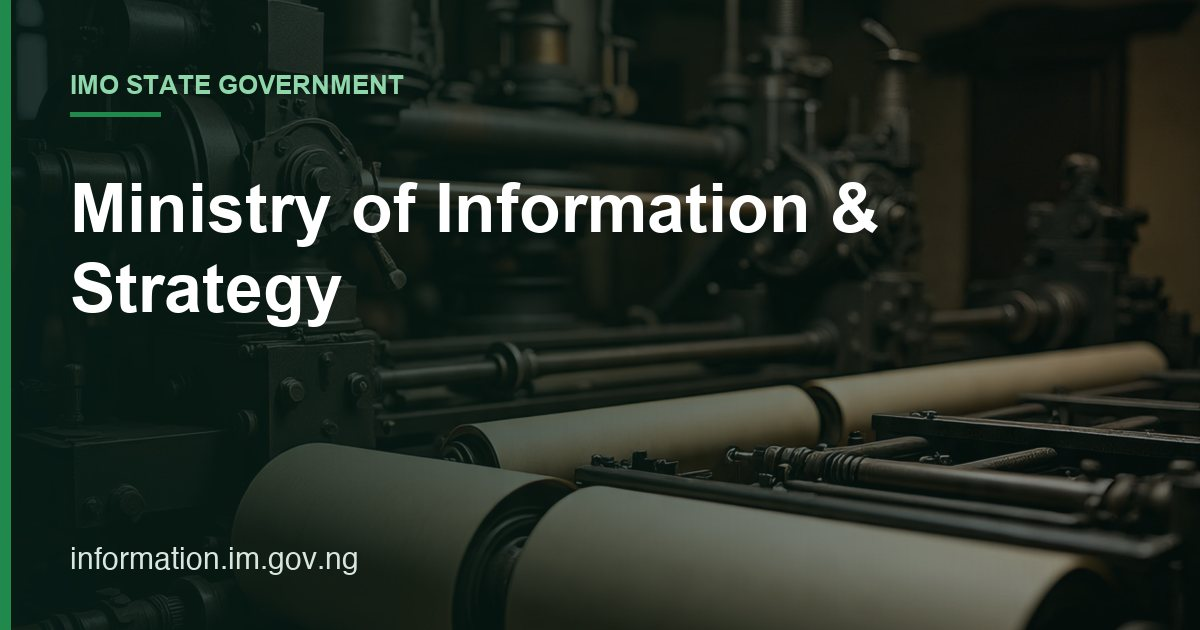
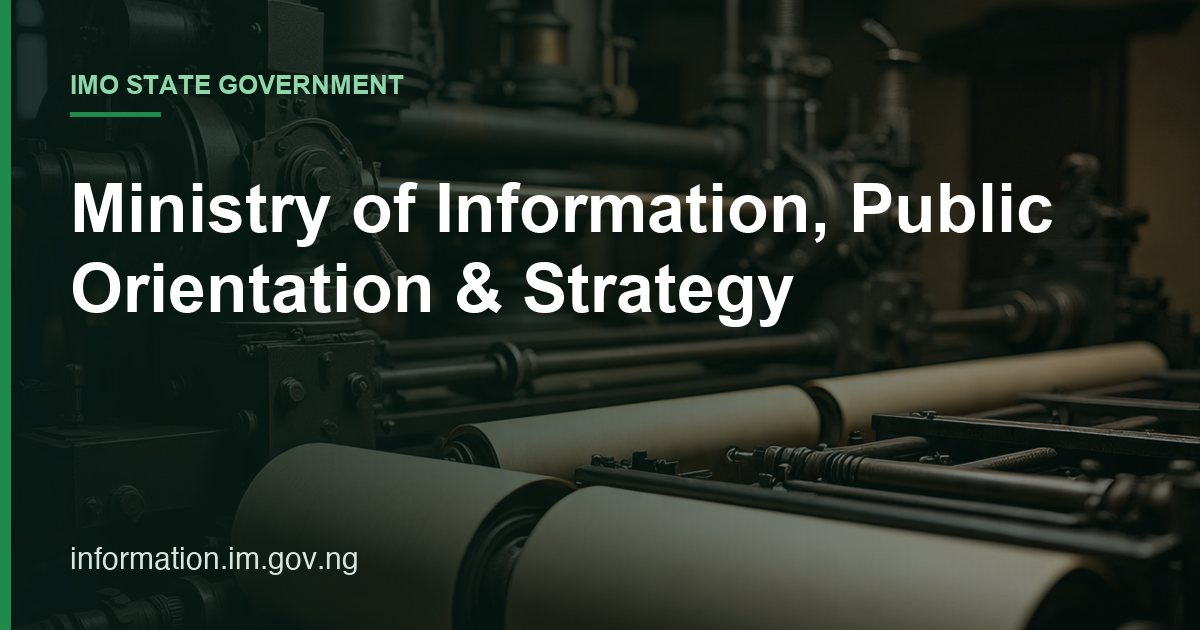
SEO sprint 3 (group 2): titles and descriptions from real service content; official names; dedicated SEO site URL variable

Changed region(s): [[0.0617, 0.3921, 0.6783, 0.5429], [0.6783, 0.2714, 0.8942, 0.3921]]

diff --git a/src/lib/seo.ts b/src/lib/seo.ts
@@ -1,10 +1,10 @@
 import type { Metadata } from "next";
 
 // Verified production domain (Vercel project domain). Override per environment if needed.
-export const SITE_URL = (process.env.NEXT_PUBLIC_SITE_URL || "https://information.im.gov.ng").replace(/\/$/, "");
-export const SITE_NAME = "Ministry of Information & Strategy";
+export const SITE_URL = (process.env.NEXT_PUBLIC_SEO_SITE_URL || "https://information.im.gov.ng").replace(/\/$/, "");
+export const SITE_NAME = "Ministry of Information, Public Orientation and Strategy";
 export const DEFAULT_DESCRIPTION =
-  "Official website of the Ministry of Information & Strategy, Imo State Government: services, departments, projects, news and events.";
+  "Official website of the Ministry of Information, Public Orientation and Strategy, Imo State Government: services, departments, projects, news and events.";
 export const OG_IMAGE_PATH = "/og-image.jpg";
 
 type Title = NonNullable<Metadata["title"]>;

diff --git a/src/app/page.tsx b/src/app/page.tsx
@@ -11,8 +11,8 @@ import { getHomeData } from "@/app/data/resourceData";
 import { pageMetadata } from "@/lib/seo";
 
 export const metadata = pageMetadata({
-  title: { absolute: "Ministry of Information & Strategy | Imo State Government" },
-  description: "Official website of the Ministry of Information & Strategy, Imo State Government: services, departments, projects, news and events.",
+  title: { absolute: "Imo State Ministry of Information, Public Orientation and Strategy" },
+  description: "Government publicity, media relations, public enlightenment campaigns and strategic communication for the Imo State Government.",
   path: "/",
 });
 

diff --git a/src/app/services/page.tsx b/src/app/services/page.tsx
@@ -5,8 +5,8 @@ import ServicesSection from "./ServicesSection";
 import { pageMetadata } from "@/lib/seo";
 
 export const metadata = pageMetadata({
-  title: "Services",
-  description: "Services offered by the Ministry of Information & Strategy of the Imo State Government.",
+  title: "Government Publicity, Media Relations and Communication",
+  description: "Government publicity, media relations, public enlightenment campaigns, strategic communication, digital media monitoring and publications for Imo State.",
   path: "/services",
 });
 

diff --git a/src/app/contact-us/page.tsx b/src/app/contact-us/page.tsx
@@ -9,7 +9,7 @@ import { pageMetadata } from "@/lib/seo";
 
 export const metadata = pageMetadata({
   title: "Contact Us",
-  description: "Contact the Ministry of Information & Strategy, Imo State Government: office location and ways to reach the ministry.",
+  description: "Contact the Ministry of Information, Public Orientation and Strategy, Imo State Government: office location and ways to reach the ministry.",
   path: "/contact-us",
 });
 

diff --git a/src/app/about-us/page.tsx b/src/app/about-us/page.tsx
@@ -12,7 +12,7 @@ import { pageMetadata } from "@/lib/seo";
 
 export const metadata = pageMetadata({
   title: "About Us",
-  description: "About the Ministry of Information & Strategy of the Imo State Government: who we are and what we do.",
+  description: "About the Ministry of Information, Public Orientation and Strategy of the Imo State Government: who we are and what we do.",
   path: "/about-us",
 });
 

diff --git a/src/app/news/page.tsx b/src/app/news/page.tsx
@@ -8,7 +8,7 @@ import { pageMetadata } from "@/lib/seo";
 
 export const metadata = pageMetadata({
   title: "News",
-  description: "Latest news, announcements and updates from the Ministry of Information & Strategy, Imo State.",
+  description: "Latest news, announcements and updates from the Ministry of Information, Public Orientation and Strategy, Imo State.",
   path: "/news",
 });
 

diff --git a/src/app/departments/page.tsx b/src/app/departments/page.tsx
@@ -6,7 +6,7 @@ import { pageMetadata } from "@/lib/seo";
 
 export const metadata = pageMetadata({
   title: "Departments",
-  description: "Departments and units of the Ministry of Information & Strategy, Imo State Government.",
+  description: "Departments and units of the Ministry of Information, Public Orientation and Strategy, Imo State Government.",
   path: "/departments",
 });
 

diff --git a/src/app/media/page.tsx b/src/app/media/page.tsx
@@ -9,7 +9,7 @@ import { pageMetadata } from "@/lib/seo";
 
 export const metadata = pageMetadata({
   title: "Media Gallery",
-  description: "Photo and media gallery of the Ministry of Information & Strategy, Imo State Government.",
+  description: "Photo and media gallery of the Ministry of Information, Public Orientation and Strategy, Imo State Government.",
   path: "/media",
 });
 

diff --git a/src/app/projects/page.tsx b/src/app/projects/page.tsx
@@ -8,7 +8,7 @@ import { pageMetadata } from "@/lib/seo";
 
 export const metadata = pageMetadata({
   title: "Projects",
-  description: "Projects and programmes of the Ministry of Information & Strategy, Imo State Government.",
+  description: "Projects and programmes of the Ministry of Information, Public Orientation and Strategy, Imo State Government.",
   path: "/projects",
 });
 

diff --git a/src/app/about-us/team/layout.tsx b/src/app/about-us/team/layout.tsx
@@ -2,7 +2,7 @@ import { pageMetadata } from "@/lib/seo";
 
 export const metadata = pageMetadata({
   title: "Our Team",
-  description: "Meet the team at the Ministry of Information & Strategy, Imo State Government.",
+  description: "Meet the team at the Ministry of Information, Public Orientation and Strategy, Imo State Government.",
   path: "/about-us/team",
 });
 

diff --git a/src/app/events/page.tsx b/src/app/events/page.tsx
@@ -9,7 +9,7 @@ import { pageMetadata } from "@/lib/seo";
 
 export const metadata = pageMetadata({
   title: "Events",
-  description: "Events organised by the Ministry of Information & Strategy, Imo State Government.",
+  description: "Events organised by the Ministry of Information, Public Orientation and Strategy, Imo State Government.",
   path: "/events",
 });
 
